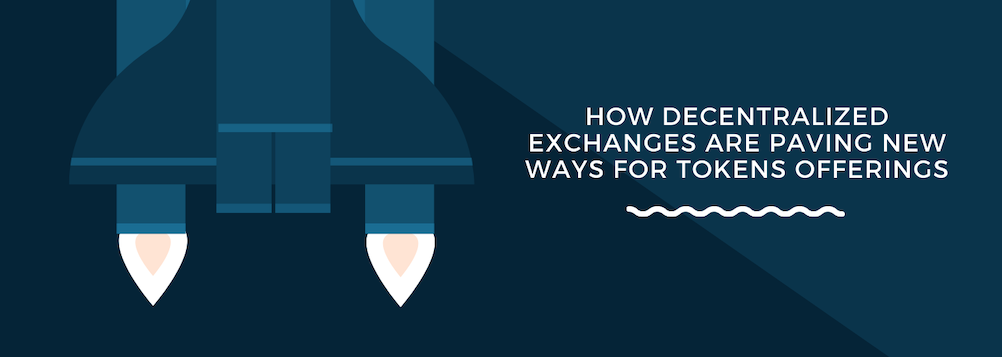
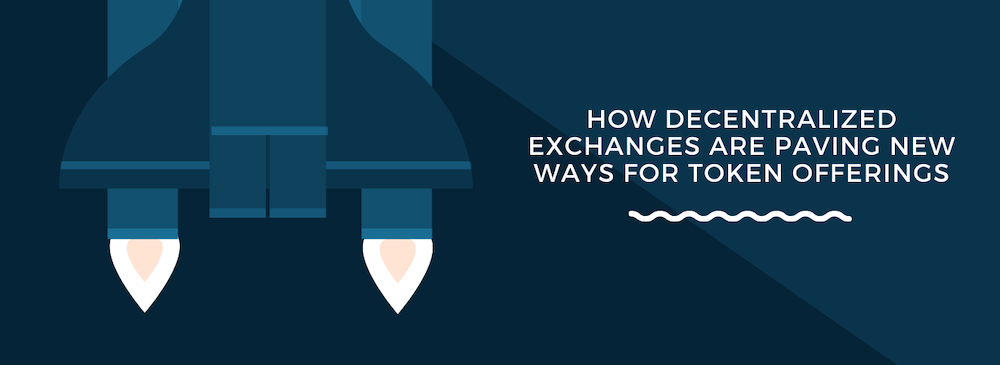
Remove typo

diff --git a/site/content/blog/how-decentralized-exchanges-are-paving-new-ways-for-tokens-offerings.md b/site/content/blog/how-decentralized-exchanges-are-paving-new-ways-for-tokens-offerings.md
@@ -1,5 +1,5 @@
 ---
-title: How decentralized exchanges are paving new ways for tokens offerings
+title: How decentralized exchanges are paving new ways for token offerings
 date: 2020-05-06T00:04:10-00:00
 image: /images/blog/dex-offering.png
 draft: false
